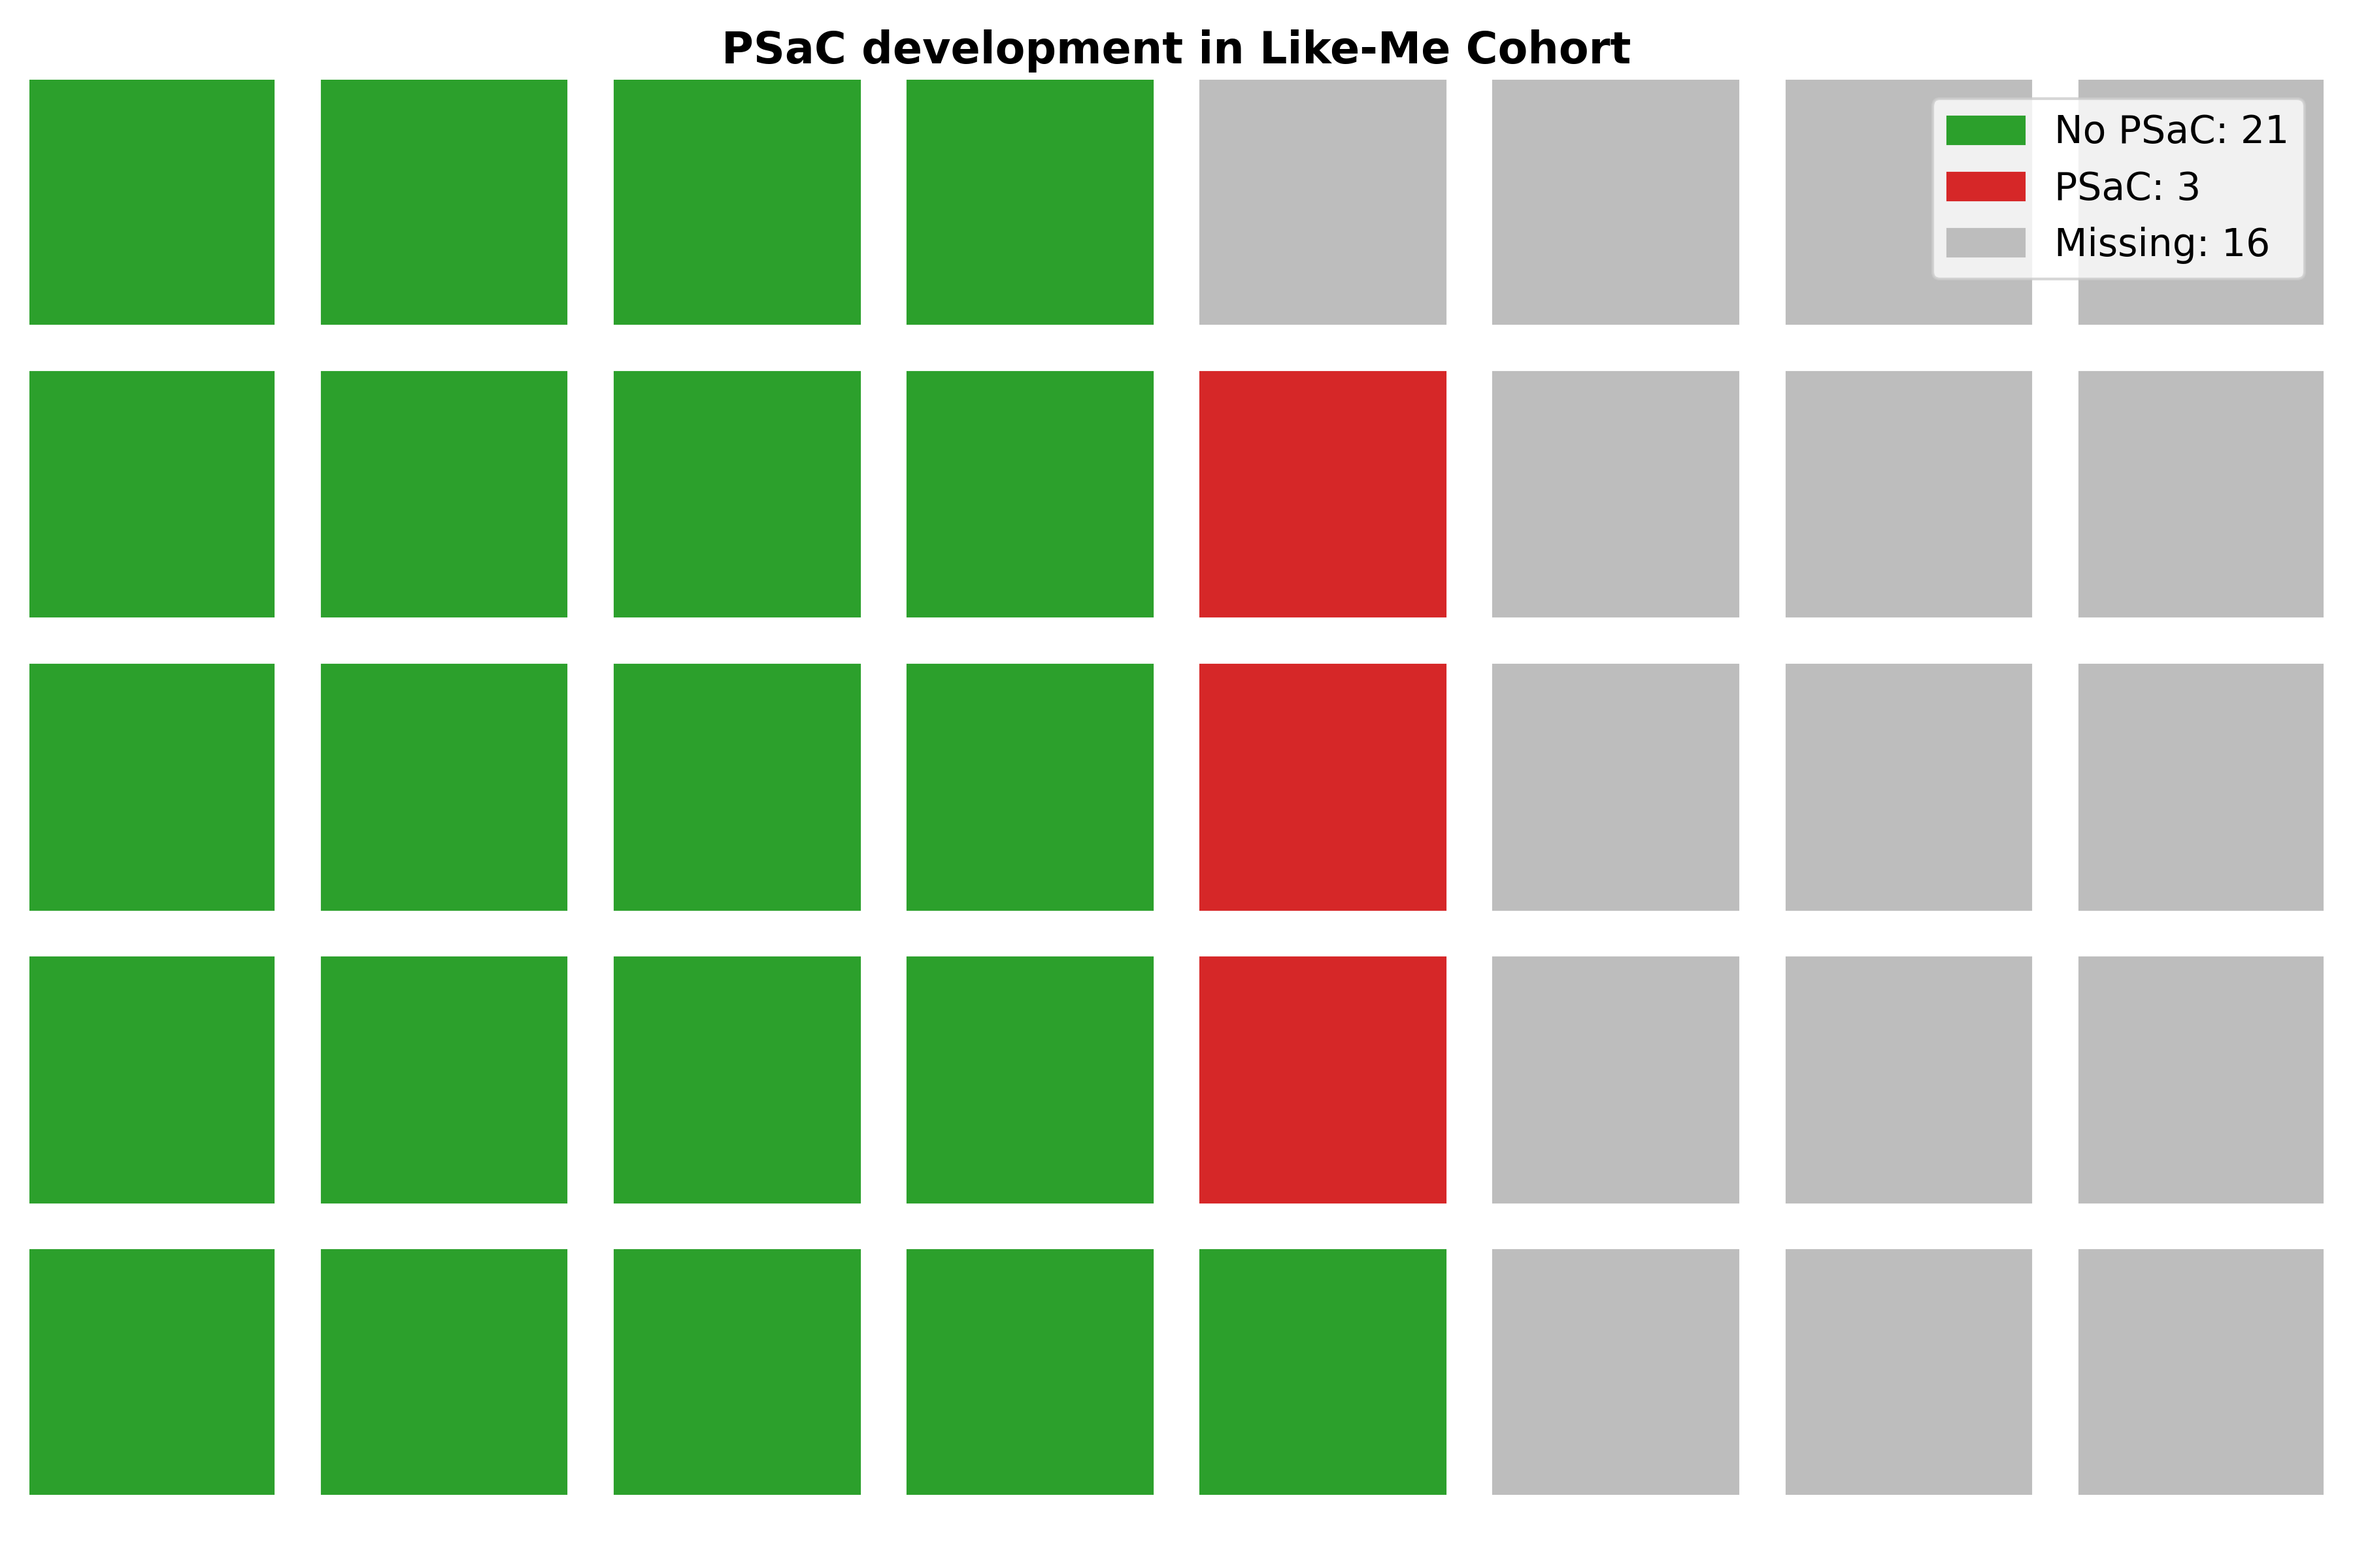
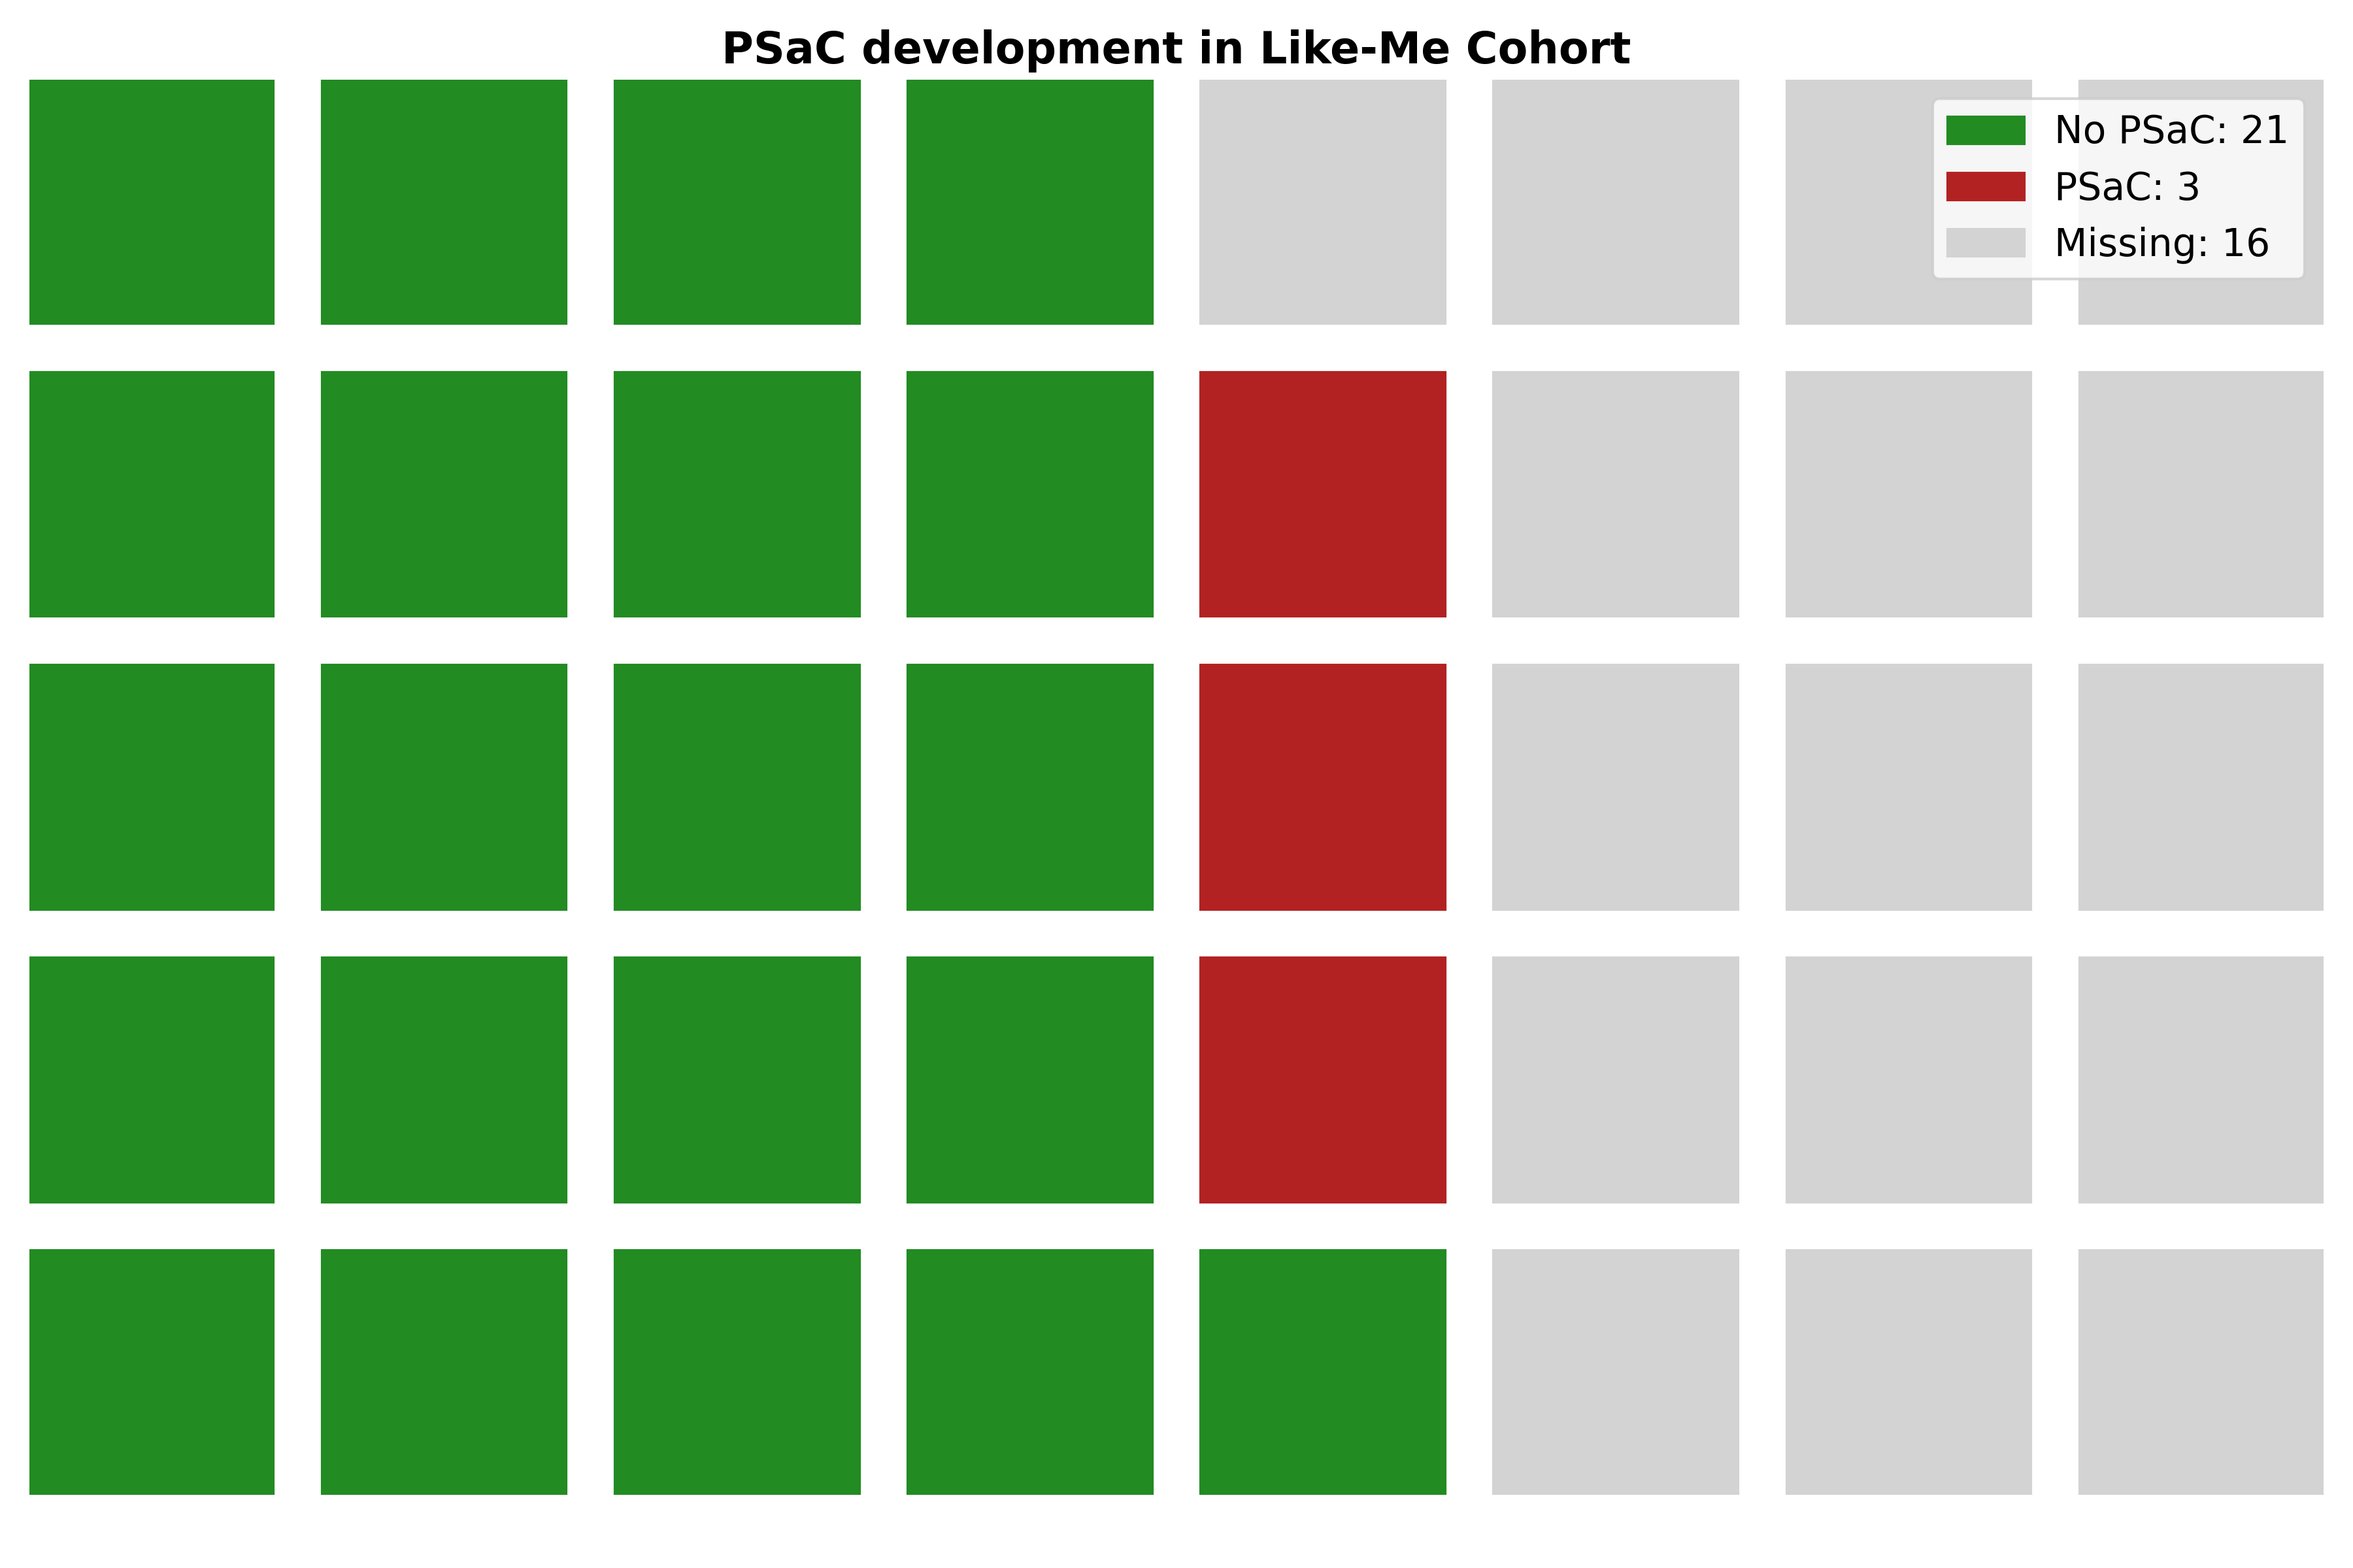
fix min-max scaling so figures are back on original scale, and add pie charts for categorical vars

Changed region(s): [[0.4978, 0.2188, 0.6222, 0.7812], [0.8089, 0.0938, 0.8711, 0.125]]

diff --git a/mahalanobis_distance.py b/mahalanobis_distance.py
@@ -1,5 +1,6 @@
 from pre_processing import X
 from pre_processing import y
+from pre_processing import X_mins, X_ranges
 
 import random 
 
@@ -117,43 +118,95 @@ like_me_y.head()
 
 ###########
 ## Undo min-max scaling
+like_me_cohort_original = (like_me_cohort * X_ranges) + (X_mins)
+patient_original = (patient * X_ranges) + X_mins
 
 ##############
-## Summary stats 
+## Summary stats
+# Min-Max values
 like_me_cohort.describe()
-like_me_y.describe()
-
 print(patient)
+
+# Original scale
+like_me_cohort_original.describe()
+print(patient_original)
+
+# y's - never changed from the original scale
+like_me_y.describe()
 print(patient_y)
 
 #################
 # box plots for some vars 
 # time_since_injury
-fig, axes = plt.subplots(2, 2, figsize=(10, 7))
+fig, axes = plt.subplots(3, 2, figsize=(12, 10))
 
-sn.boxplot(data=like_me_cohort['time_since_injury'], ax=axes[0, 0], color='lightgrey', showfliers=False)
-sn.stripplot(data=like_me_cohort['time_since_injury'], ax=axes[0, 0], color='dimgrey', size=4, jitter=True)
-axes[0, 0].scatter(0, patient['time_since_injury'], s=80, linewidths=2, marker='x', color='firebrick', edgecolor='white', zorder=5, label='Patient value')
+sn.boxplot(data=like_me_cohort_original['time_since_injury'], ax=axes[0, 0], color='lightgrey', showfliers=False)
+sn.stripplot(data=like_me_cohort_original['time_since_injury'], ax=axes[0, 0], color='dimgrey', size=4, jitter=True)
+axes[0, 0].scatter(0, patient_original['time_since_injury'], s=80, linewidths=2, marker='x', color='firebrick', edgecolor='white', zorder=5, label='Patient value')
 axes[0, 0].set_ylabel("Time since injury (days)", fontsize=12)
 axes[0, 0].legend(loc='upper center', bbox_to_anchor=(0.5, 1.15), fontsize=12)
 
-sn.boxplot(data=like_me_cohort['age'], ax=axes[0, 1], color='lightgrey', showfliers=False)
-sn.stripplot(data=like_me_cohort['age'], ax=axes[0, 1], color='dimgrey', size=4, jitter=True)
-axes[0, 1].scatter(0, patient['age'], s=80, linewidths=2, marker='x', color='firebrick', edgecolor='white', zorder=5)
+sn.boxplot(data=like_me_cohort_original['age'], ax=axes[0, 1], color='lightgrey', showfliers=False)
+sn.stripplot(data=like_me_cohort_original['age'], ax=axes[0, 1], color='dimgrey', size=4, jitter=True)
+axes[0, 1].scatter(0, patient_original['age'], s=80, linewidths=2, marker='x', color='firebrick', edgecolor='white', zorder=5)
 axes[0, 1].set_ylabel("Age (years)", fontsize=12)
 
-sn.boxplot(data=like_me_cohort['HBI_total'], ax=axes[1, 0], color='lightgrey', showfliers=False)
-sn.stripplot(data=like_me_cohort['HBI_total'], ax=axes[1, 0], color='dimgrey', size=4, jitter=True)
-axes[1, 0].scatter(0, patient['HBI_total'], s=80, linewidths=2, marker='x', color='firebrick', edgecolor='white', zorder=5)
+sn.boxplot(data=like_me_cohort_original['HBI_total'], ax=axes[1, 0], color='lightgrey', showfliers=False)
+sn.stripplot(data=like_me_cohort_original['HBI_total'], ax=axes[1, 0], color='dimgrey', size=4, jitter=True)
+axes[1, 0].scatter(0, patient_original['HBI_total'], s=80, linewidths=2, marker='x', color='firebrick', edgecolor='white', zorder=5)
 axes[1, 0].set_ylabel("Symptom burden (HBI total score)", fontsize=12)
 
-sn.boxplot(data=like_me_cohort['headache_severity'], ax=axes[1, 1], color='lightgrey', showfliers=False)
-sn.stripplot(data=like_me_cohort['headache_severity'], ax=axes[1, 1], color='dimgrey', size=4, jitter=True)
-axes[1, 1].scatter(0, patient['headache_severity'], s=80, linewidths=2, marker='x', color='firebrick', edgecolor='white', zorder=5)
+sn.boxplot(data=like_me_cohort_original['headache_severity'], ax=axes[1, 1], color='lightgrey', showfliers=False)
+sn.stripplot(data=like_me_cohort_original['headache_severity'], ax=axes[1, 1], color='dimgrey', size=4, jitter=True)
+axes[1, 1].scatter(0, patient_original['headache_severity'], s=80, linewidths=2, marker='x', color='firebrick', edgecolor='white', zorder=5)
 axes[1, 1].set_ylabel("Headache severity", fontsize=12)
+
+sn.boxplot(data=like_me_cohort_original['BESS_total'], ax=axes[2, 0], color='lightgrey', showfliers=False)
+sn.stripplot(data=like_me_cohort_original['BESS_total'], ax=axes[2, 0], color='dimgrey', size=4, jitter=True)
+axes[2, 0].scatter(0, patient_original['BESS_total'], s=80, linewidths=2, marker='x', color='firebrick', edgecolor='white', zorder=5)
+axes[2, 0].set_ylabel("BESS total (all stances)", fontsize=12)
+
+sn.boxplot(data=like_me_cohort_original['number_prior_conc'], ax=axes[2, 1], color='lightgrey', showfliers=False)
+sn.stripplot(data=like_me_cohort_original['number_prior_conc'], ax=axes[2, 1], color='dimgrey', size=4, jitter=True)
+axes[2, 1].scatter(0, patient_original['number_prior_conc'], s=80, linewidths=2, marker='x', color='firebrick', edgecolor='white', zorder=5)
+axes[2, 1].set_ylabel("Number of prior concussions", fontsize=12)
 
 plt.tight_layout()
 plt.savefig("./figs/like_me_aggregated_X", dpi=300, bbox_inches='tight')
+plt.show()
+
+#############
+## plot binary variables too
+
+from matplotlib.patches import Patch
+vars_ = ['anx_dep', 'current_sleep_problems', 'exercise_since_injury', 'sex1f']
+labels = ['Yes', 'No']
+colors = ['lightblue', 'slategrey']
+counts = {}
+
+for var in vars_:
+    counts[var] = [(like_me_cohort_original[var] == 1).sum(), (like_me_cohort_original[var] == 0).sum()]
+
+fig, axes = plt.subplots(2, 2, figsize=(7, 8))
+
+axes[0, 0].pie(counts['anx_dep'], labels=None, colors=colors, wedgeprops=dict(linewidth=1, edgecolor="white"))
+axes[0, 0].axis('equal'); axes[0, 0].set_title('Hx of anxiety or depression', fontweight='bold')
+
+axes[0, 1].pie(counts['current_sleep_problems'], labels=None, colors=colors, wedgeprops=dict(linewidth=1, edgecolor="white"))
+axes[0, 1].axis('equal'); axes[0, 1].set_title('Current sleep problems', fontweight='bold')
+
+axes[1, 0].pie(counts['exercise_since_injury'], labels=None, colors=colors, wedgeprops=dict(linewidth=1, edgecolor="white"))
+axes[1, 0].axis('equal'); axes[1, 0].set_title('Exercising since injury', fontweight='bold')
+
+axes[1, 1].pie(counts['sex1f'], labels=None, colors=colors, wedgeprops=dict(linewidth=1, edgecolor="white"))
+axes[1, 1].axis('equal'); axes[1, 1].set_title('Biological Sex: Female', fontweight='bold')
+
+handles = [
+    Patch(facecolor=colors[0], edgecolor="white", label="Yes"),
+    Patch(facecolor=colors[1], edgecolor="white", label="No")]
+fig.legend(handles=handles, loc="upper center", ncol=2, bbox_to_anchor=(0.5, 0.05), frameon=False, handlelength=1, prop={'size': 12})
+plt.tight_layout()
+plt.savefig("./figs/like_me_aggregated_X_categoricals", dpi=300, bbox_inches='tight')
 plt.show()
 
 ################
@@ -197,7 +250,7 @@ nanFilled_PPCS = pd.to_numeric(like_me_y['PPCS'], errors='coerce')
 cats = nanFilled_PPCS.map({0: 'No PSaC', 1: 'PSaC'}).fillna('Missing')
 order = ['No PSaC', 'PSaC', 'Missing']
 values = {k: cats.value_counts().get(k, 0) for k in order}
-colors = ['#2ca02c', '#d62728', '#bdbdbd']
+colors = ['forestgreen', 'firebrick', 'lightgrey']
 
 plt.figure(
     figsize=(12,8),

diff --git a/pre_processing.py b/pre_processing.py
@@ -62,6 +62,9 @@ X['BESS_total'].head()
 
 ##############
 ## Min-Max Scaling (just for X, don't care for y)
+X_mins = X.min()
+X_ranges = (X.max() - X.min())
+
 for col in X.columns:
     X[col] = (X[col] - np.min(X[col])) / (np.max(X[col]) - np.min(X[col]))
 

diff --git a/UMAP_and_cluster.py b/UMAP_and_cluster.py
@@ -1,6 +1,6 @@
 from mahalanobis_distance import cohort, y, patient, patient_y
 from mahalanobis_distance import like_me_cohort, like_me_y
-
+from mahalanobis_distance import like_me_cohort_scaled, patient_scaled
 
 # like_me_cohort
 # like_me_y

diff --git a/README.md b/README.md
@@ -48,3 +48,7 @@ Taken together, a quality data science and machine learning approach to supporti
     - Box-plots: of each feature to show where the patient value stacks up among the patients-like-them 
     - Some special visual for the recovery outcomes
 
+
+
+
+drop a few of the useless binary cols
